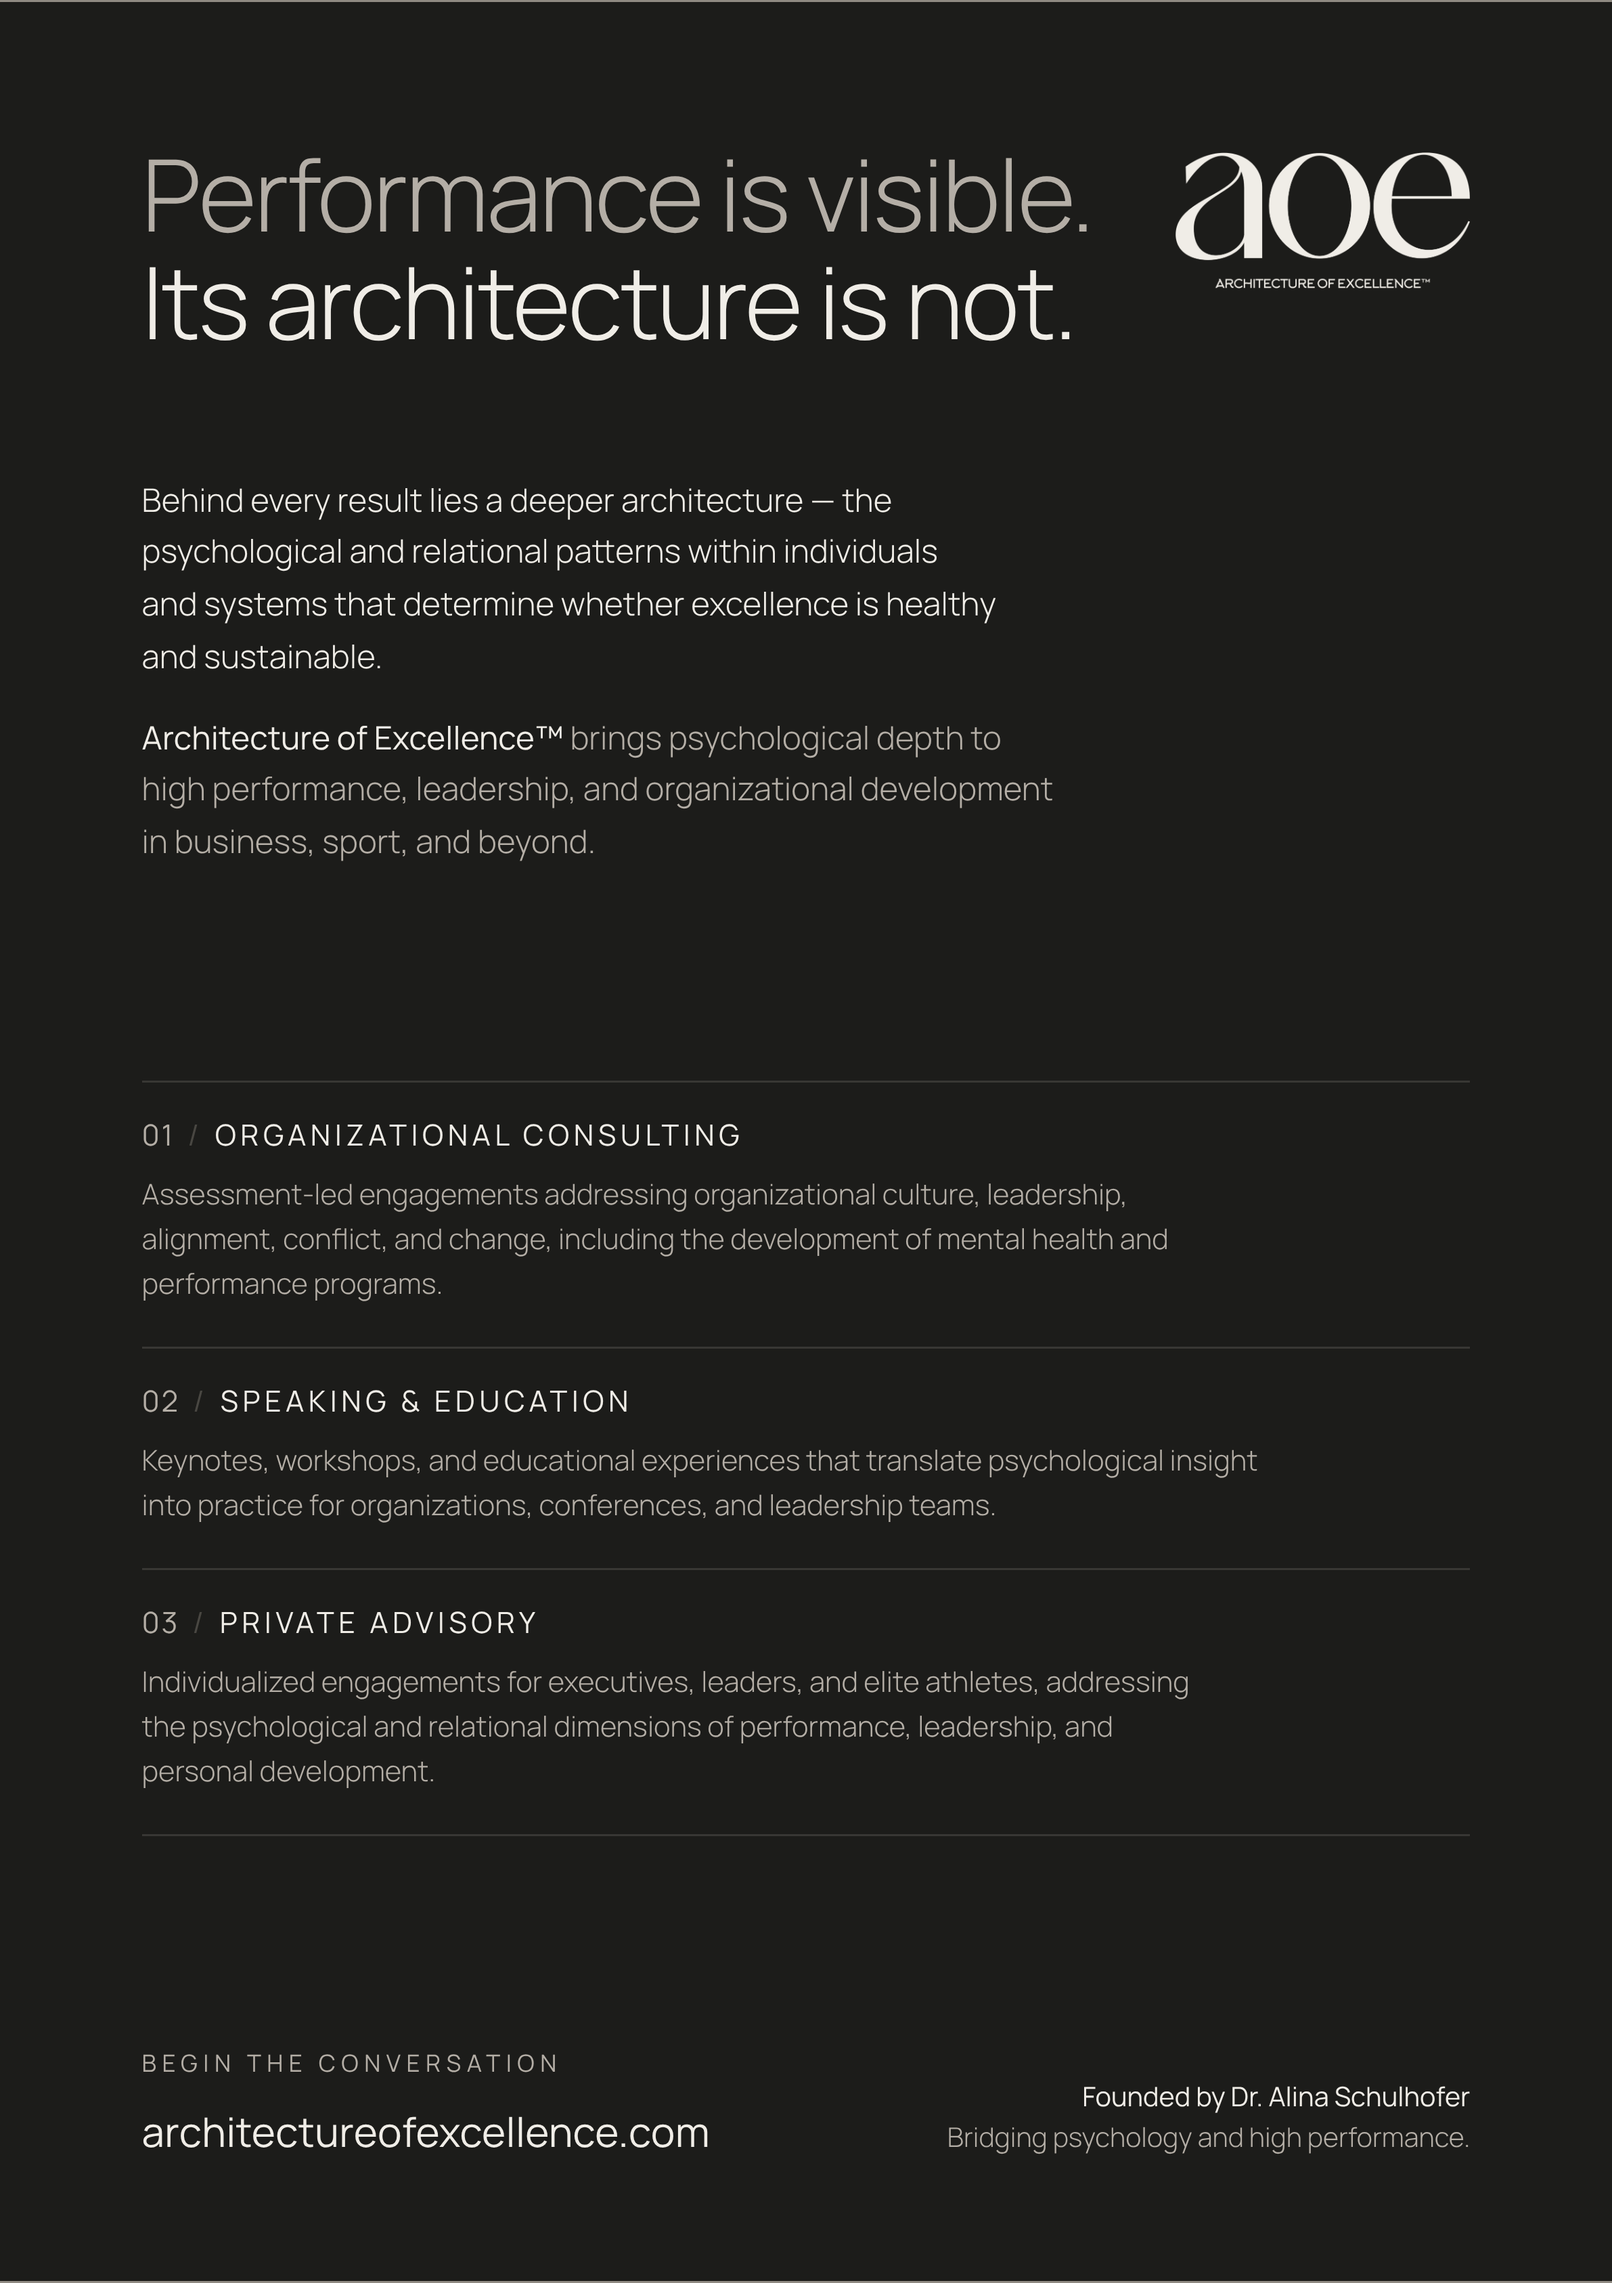
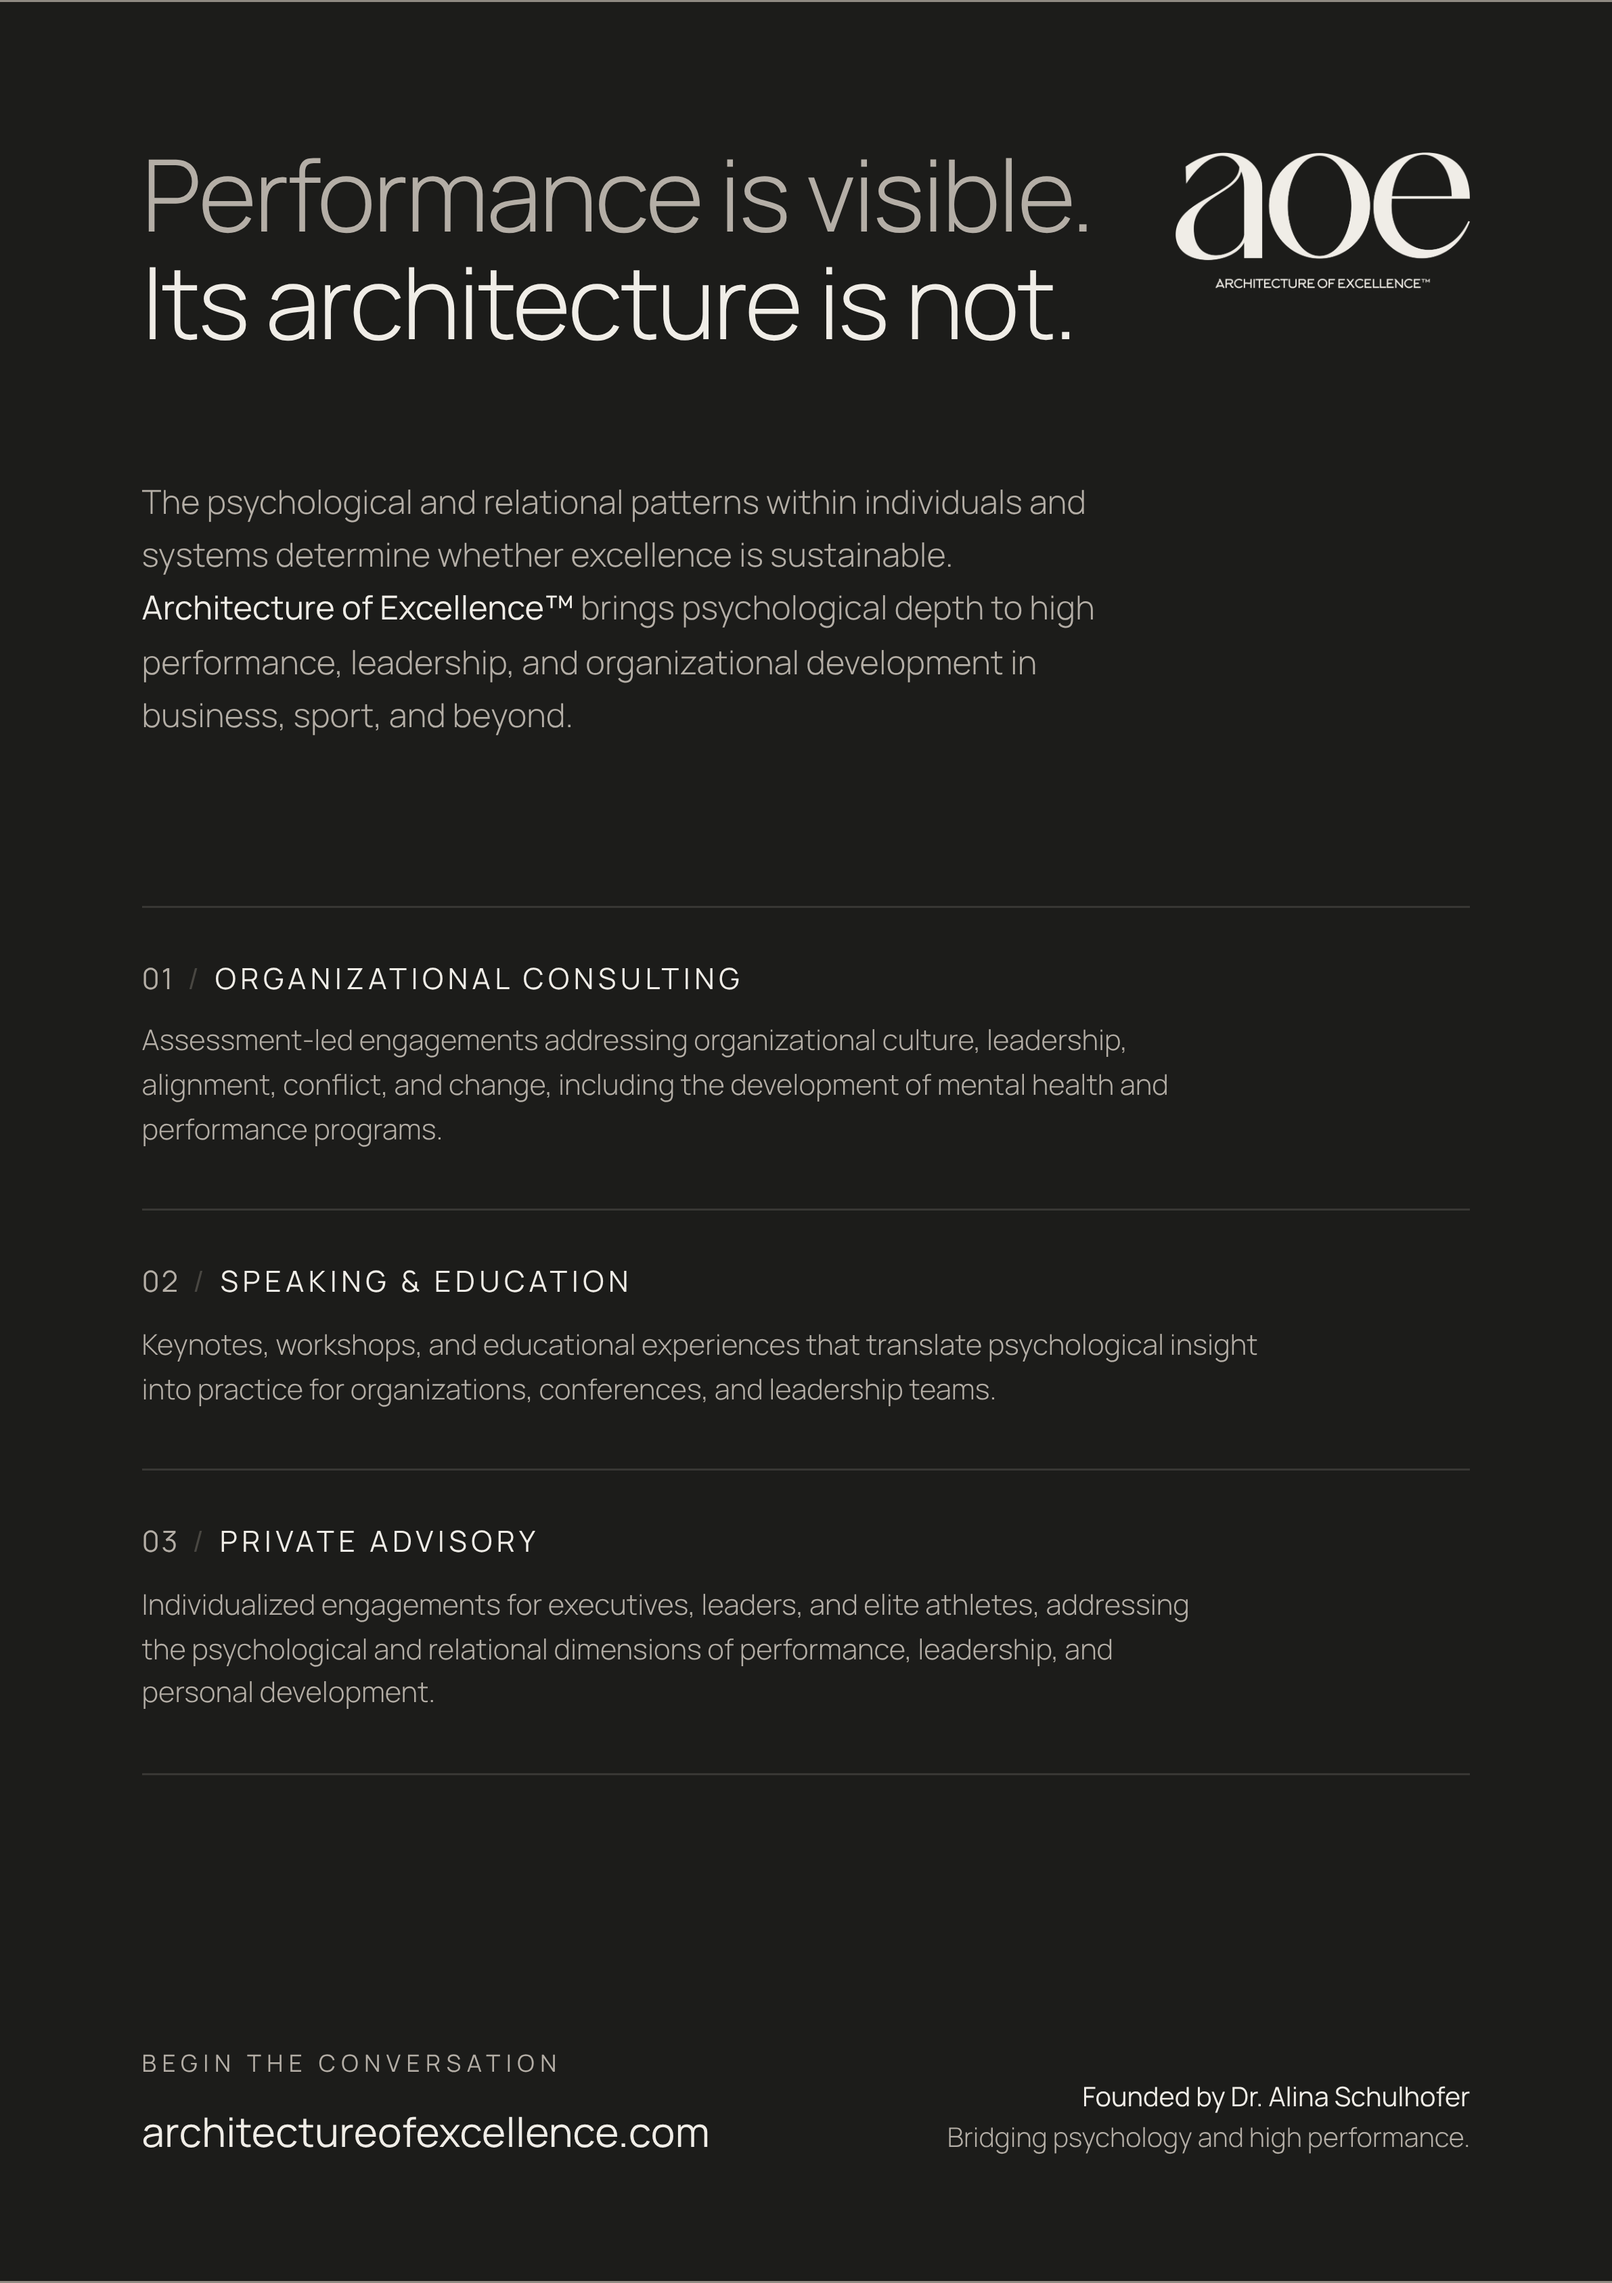
Final ad: single-paragraph introduction, raise services
Merge the introduction into one shorter paragraph in one colour with
the brand name highlighted, move the services up under it, and give
each service more vertical room so the page stays balanced.

Claude-Session: https://claude.ai/code/session_016XVBEBNhyuoZMVmUbvV6yP

diff --git a/ads/panam-aquatics-2026/final-editorial.html b/ads/panam-aquatics-2026/final-editorial.html
@@ -35,17 +35,14 @@
   .fe .headline .l1 { display: block; color: var(--gray); }
   .fe .headline .l2 { display: block; color: var(--ivory); }
 
-  /* 2 · Introduction: two short paragraphs at a reading measure */
-  .fe .intro { margin-top: 11mm; max-width: 84mm; }
-  .fe .intro p { font-size: 8.4pt; font-weight: 300; line-height: 1.62; letter-spacing: .003em; text-wrap: pretty; }
-  .fe .intro p + p { margin-top: 2.6mm; }
-  .fe .intro .lead { color: var(--ivory); }
-  .fe .intro .follow { color: var(--gray); }
-  .fe .intro .follow b { font-weight: 400; color: var(--ivory); }
+  /* 2 · Introduction: one paragraph at a reading measure */
+  .fe .intro { margin-top: 11mm; max-width: 88mm; }
+  .fe .intro p { font-size: 8.6pt; font-weight: 300; line-height: 1.62; letter-spacing: .003em; color: var(--gray); text-wrap: pretty; }
+  .fe .intro b { font-weight: 400; color: var(--ivory); }
 
   /* 3 · Services: editorial index */
-  .fe .services { margin-block: auto; border-top: .25pt solid var(--divider); }
-  .fe .svc { padding: 3.6mm 0 3.8mm; border-bottom: .25pt solid var(--divider); }
+  .fe .services { margin: 15mm 0 auto; border-top: .25pt solid var(--divider); }
+  .fe .svc { padding: 5.2mm 0 5.4mm; border-bottom: .25pt solid var(--divider); }
   .fe .svc-head {
     font-size: 7.6pt;
     font-weight: 400;
@@ -57,7 +54,7 @@
   .fe .svc-head .num { color: var(--gray); letter-spacing: .06em; }
   .fe .svc-head .sep { color: var(--line); margin: 0 .55em 0 .45em; letter-spacing: 0; }
   .fe .svc-text {
-    margin-top: 2mm;
+    margin-top: 2.3mm;
     max-width: 104mm;
     font-size: 7.4pt;
     font-weight: 300;
@@ -102,8 +99,7 @@
   </header>
 
   <div class="intro">
-    <p class="lead">Behind every result lies a deeper architecture — the psychological and relational patterns within individuals and systems that determine whether excellence is healthy and sustainable.</p>
-    <p class="follow"><b>Architecture of Excellence™</b> brings psychological depth to high performance, leadership, and organizational development in business, sport, and beyond.</p>
+    <p>The psychological and relational patterns within individuals and systems determine whether excellence is sustainable. <b>Architecture of Excellence™</b> brings psychological depth to high performance, leadership, and organizational development in business, sport, and beyond.</p>
   </div>
 
   <section class="services">
